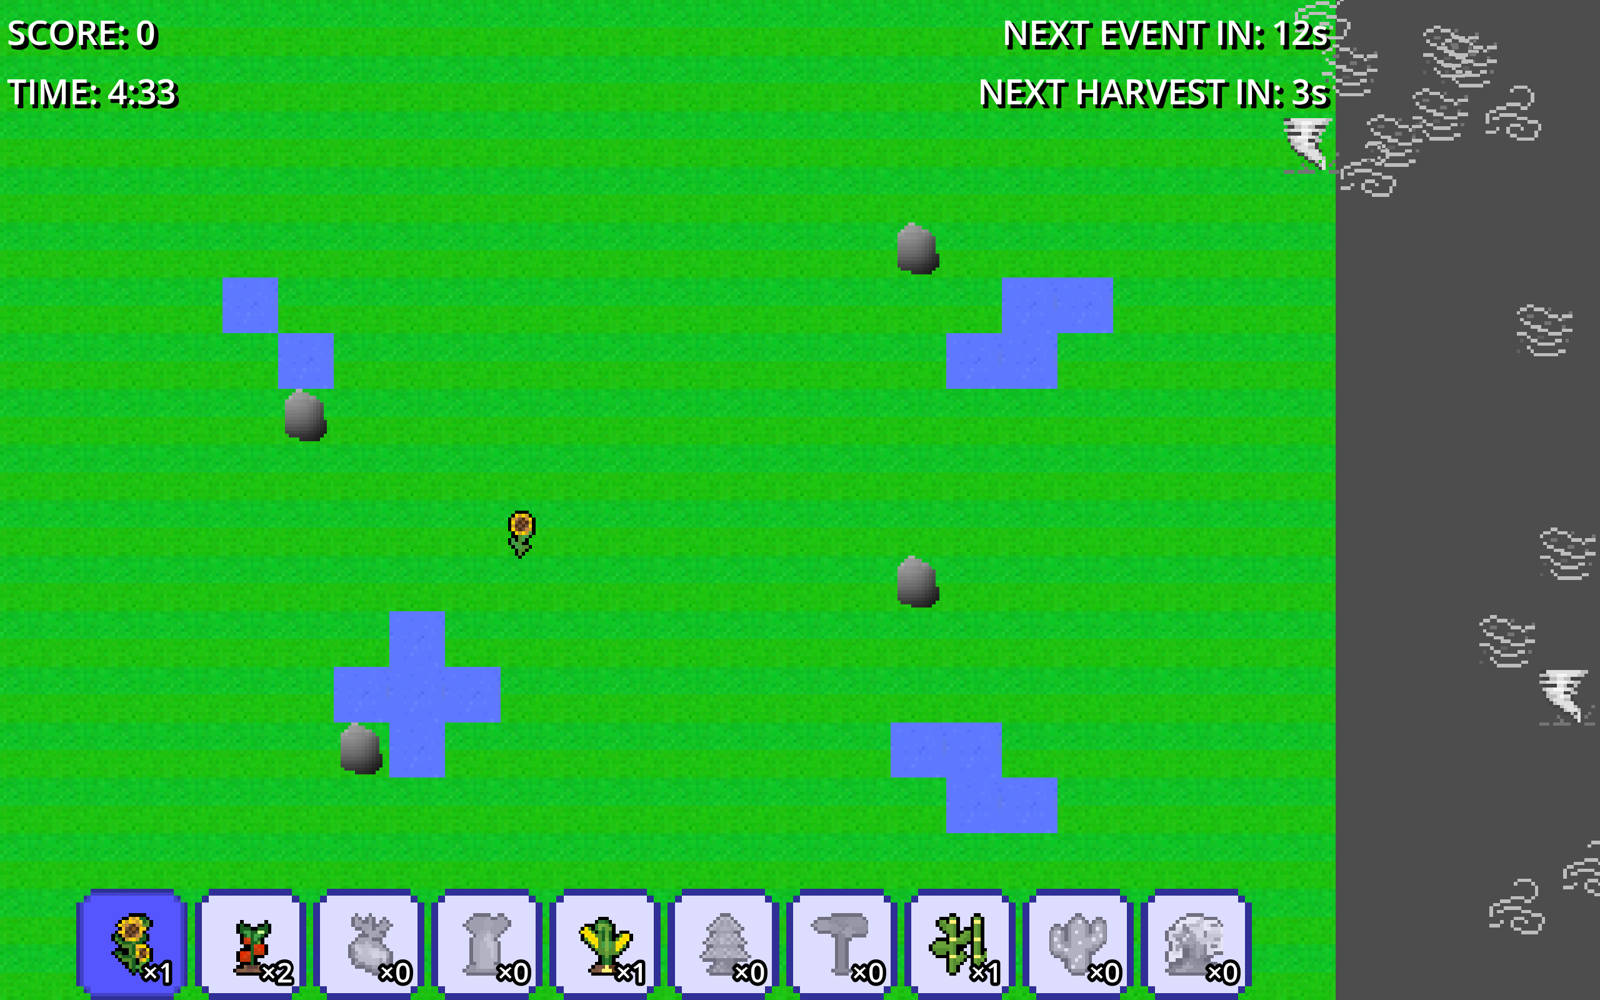
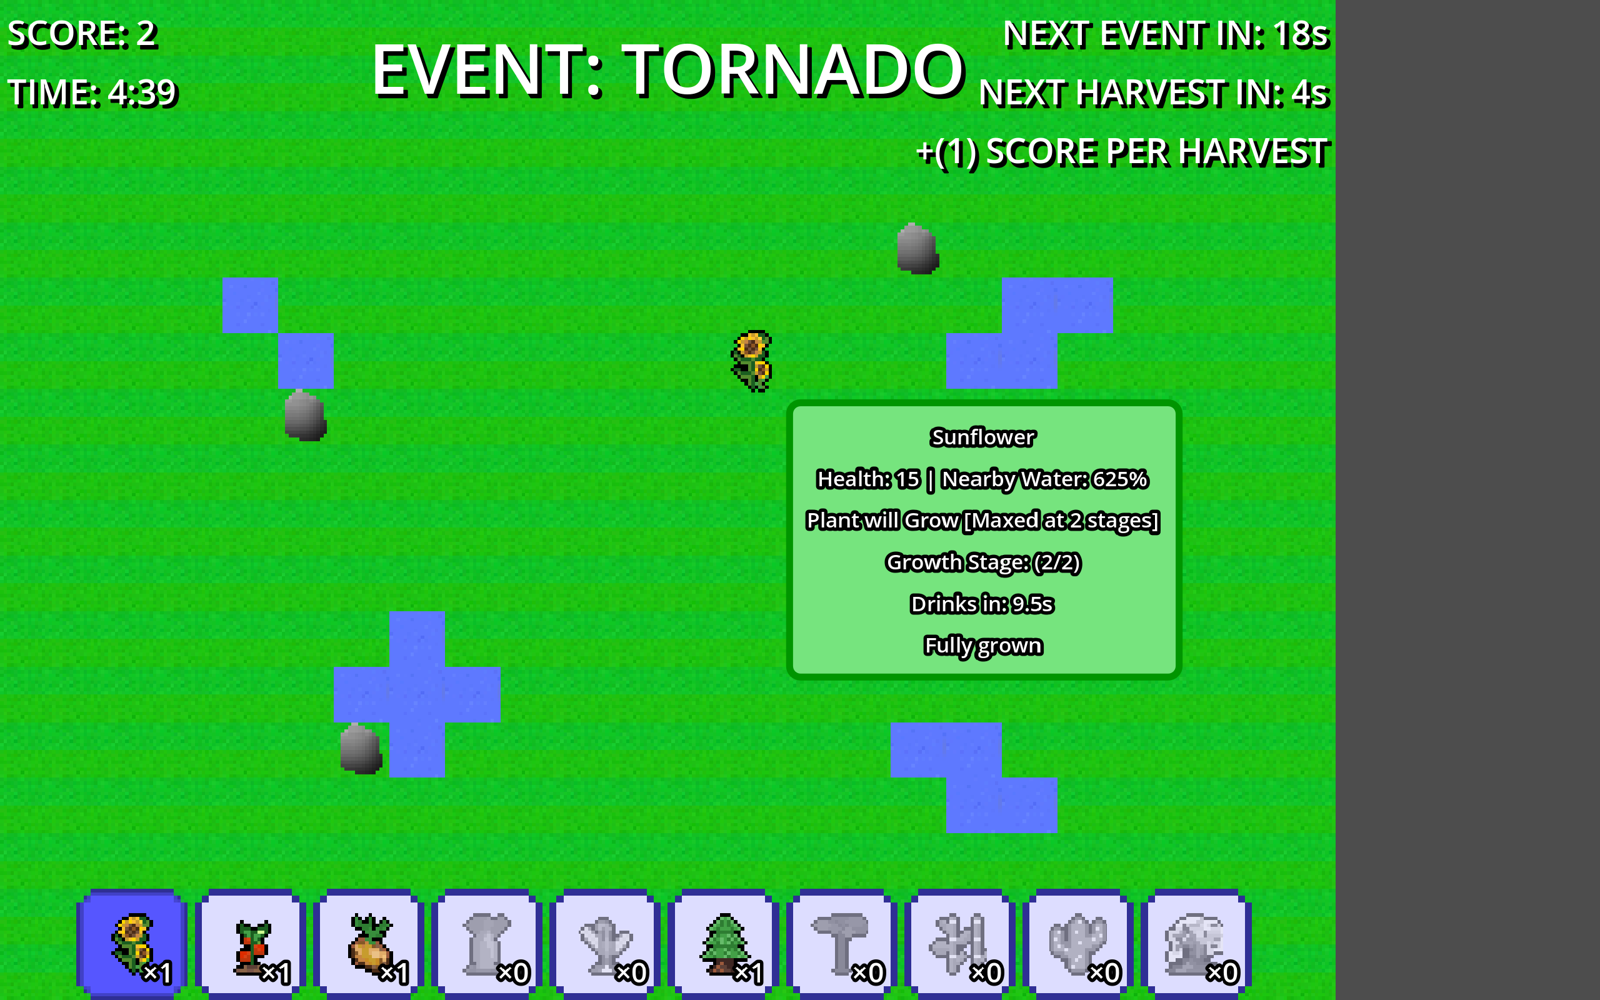
CI: fail on import/export errors; README fixes and updated screenshot

diff --git a/README.md b/README.md
@@ -4,8 +4,6 @@ A 2D strategy game for the browser or desktop: plant crops and defenders on a sm
 
 ![Main menu and a game in progress](docs/images/gameplay.png)
 
-**Live demo:** coming soon
-
 ## Why it is useful
 
 - It is a finished, playable Godot 4 project built in one weekend, with the full game loop (menu, play, win or lose).
@@ -65,7 +63,7 @@ There are no automated tests. The CI workflow checks that the project imports an
 
 ## Team and my role
 
-Built at the GUTS hackathon (October 2025) by a team of four plus me:
+Built at the GUTS hackathon (October 2025) by a team of four:
 
 - [Aunarky](https://github.com/Aunarky): project setup, main scene, inventory and placement.
 - kailo9: plant classes and stats, difficulty, timers and tutorial text.
